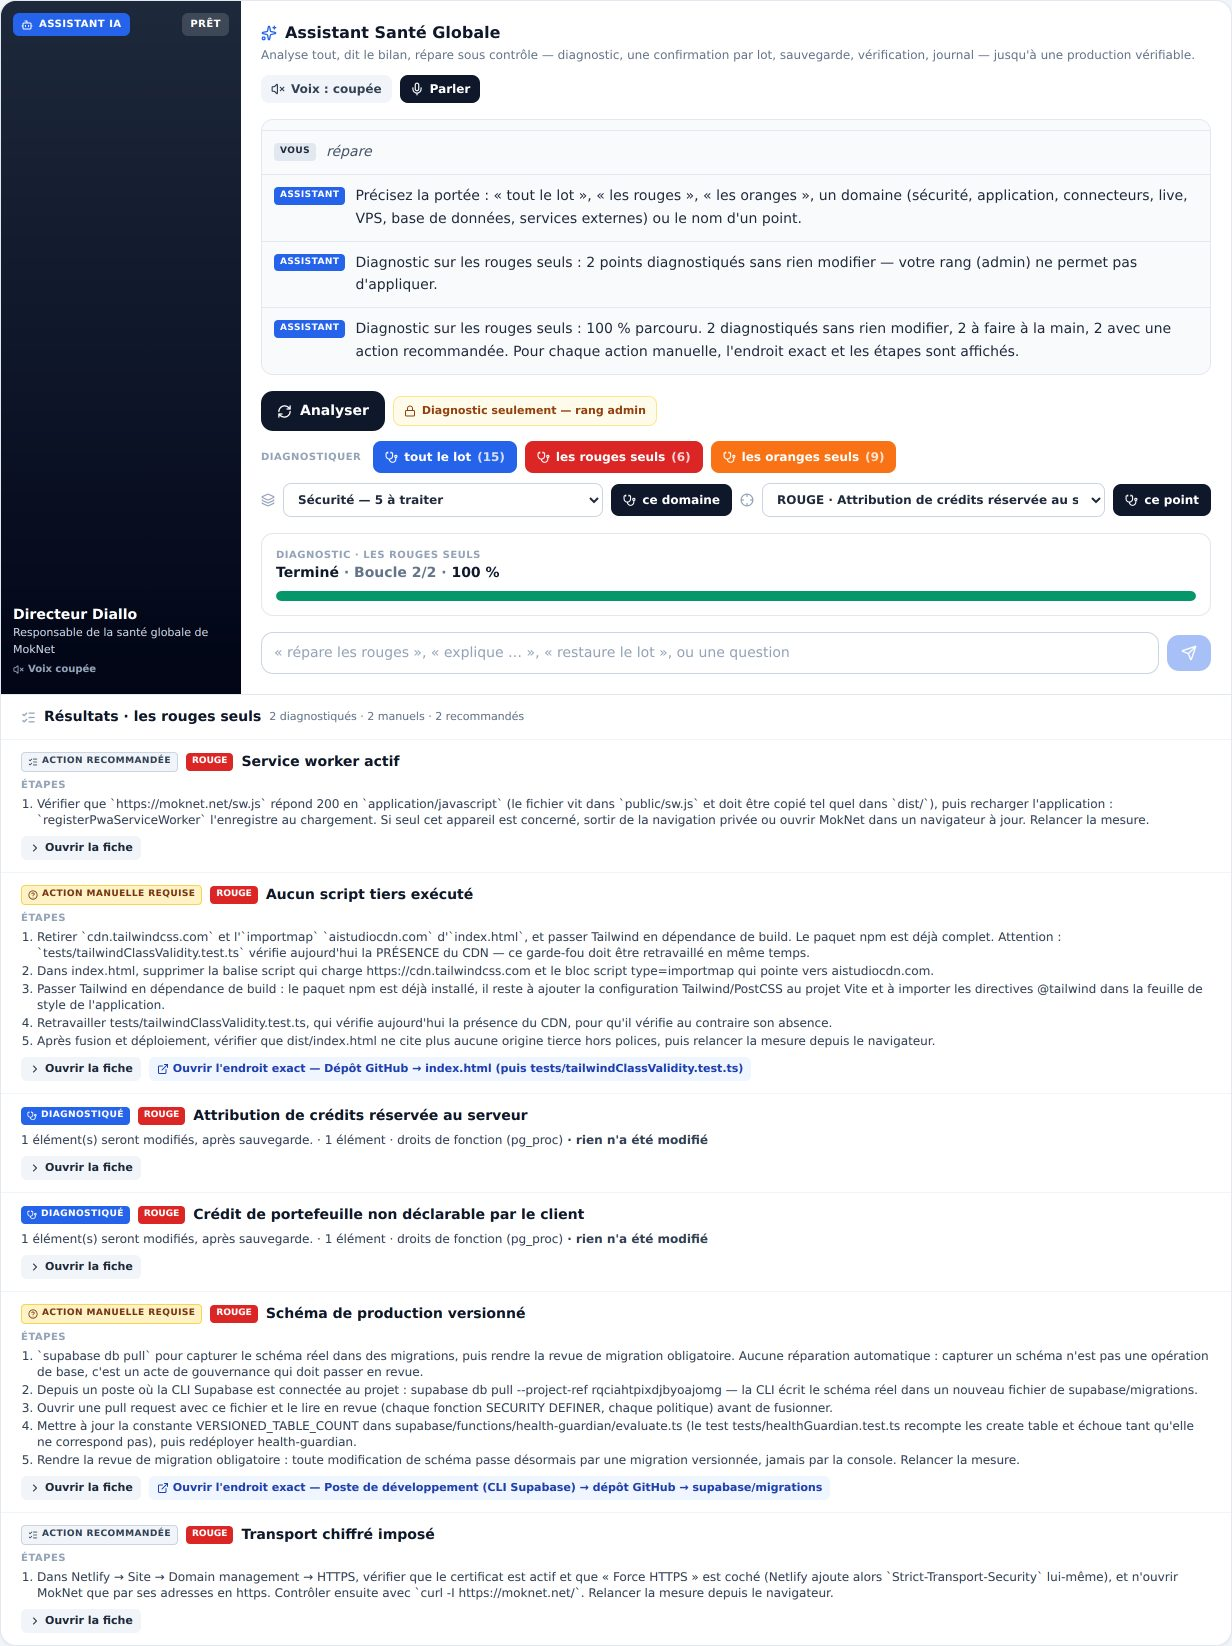
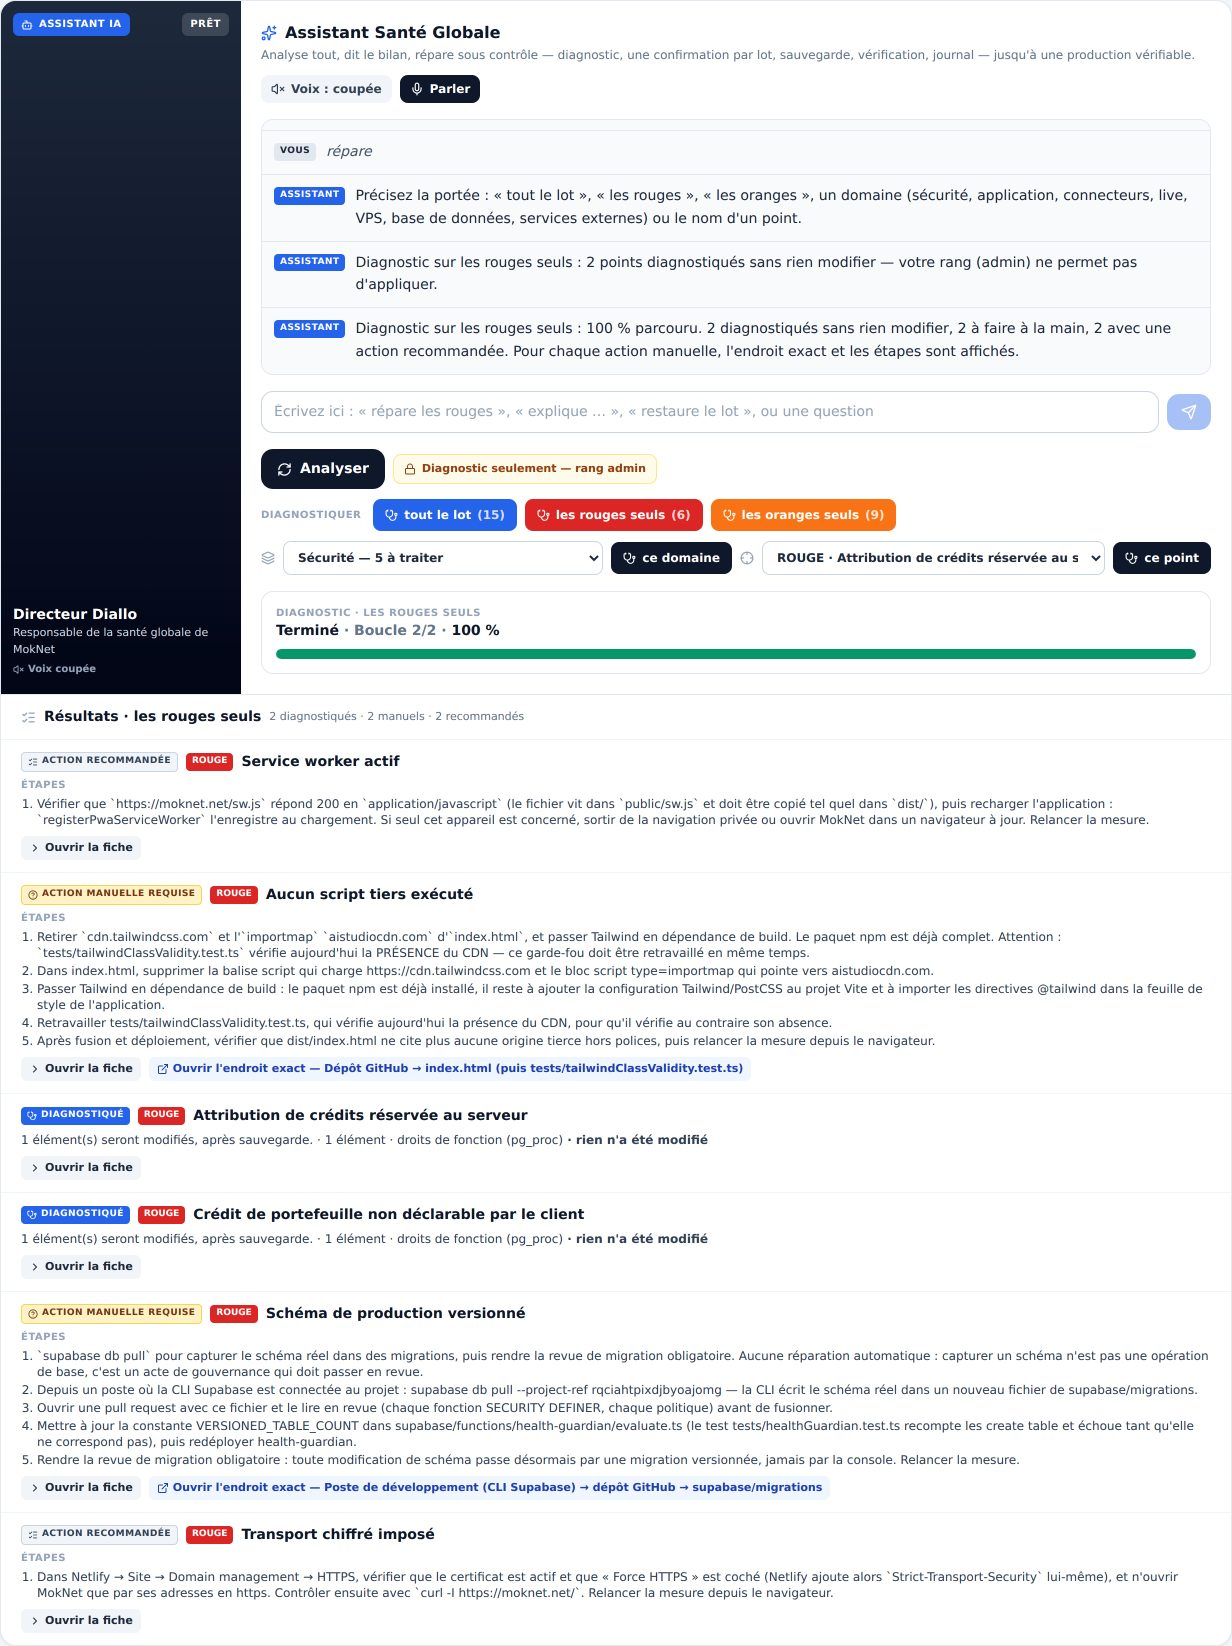
feat(sante): Assistant Santé Globale — le champ de dialogue placé juste sous la conversation, rien à activer
La Direction demandait où se fait le dialogue avec l'Assistant et comment
l'activer. Le champ de saisie était sous les boutons de commande et la
progression ; il est désormais juste sous la conversation, là où l'on répond
à ce qu'on vient de lire (touche Entrée ou bouton Envoyer), avec le
placeholder « Écrivez ici : … ». Rien n'est à activer : le dialogue est
ouvert à tout administrateur, seul l'acte d'appliquer une réparation exige
le rang Admin Général (garde serveur inchangée).

Captures de preuve régénérées sur le harnais (mesures de production du
5/09, quatre parcours, 0 erreur JS) ; README des captures : où se fait le
dialogue. Typage 0 erreur, 1588/1588 tests.

Claude-Session: https://claude.ai/code/session_01EkBFwqPaEpZguZAEQDfhDx

Changed region(s): [[0.2159, 0.2169, 0.987, 0.4338]]

diff --git a/components/admin/HealthAssistant.tsx b/components/admin/HealthAssistant.tsx
@@ -472,6 +472,18 @@ export const HealthAssistant: React.FC<HealthAssistantProps> = ({
                         )}
                     </div>
 
+                    {/* Consigne écrite — juste sous le dialogue, là où l'on répond à ce qu'on vient de lire */}
+                    <form onSubmit={envoyer} className="flex items-center gap-2">
+                        <label htmlFor="assistant-saisie" className="sr-only">Consigne ou question</label>
+                        <input id="assistant-saisie" type="text" value={saisie} onChange={(e) => setSaisie(e.target.value)} autoComplete="off"
+                               placeholder="Écrivez ici : « répare les rouges », « explique … », « restaure le lot », ou une question"
+                               className="flex-1 min-w-0 rounded-xl border border-slate-300 px-3 py-2.5 text-sm text-slate-900 placeholder:text-slate-400 focus:outline-none focus:ring-2 focus:ring-blue-500" />
+                        <button type="submit" disabled={!saisie.trim()} aria-label="Envoyer"
+                                className="px-3.5 py-2.5 rounded-xl bg-blue-600 text-white hover:bg-blue-700 disabled:opacity-40 focus-visible:outline-none focus-visible:ring-2 focus-visible:ring-blue-500">
+                            <Send size={16} />
+                        </button>
+                    </form>
+
                     {/* Commandes */}
                     <div className="space-y-2.5">
                         <div className="flex flex-wrap items-center gap-2">
@@ -545,18 +557,6 @@ export const HealthAssistant: React.FC<HealthAssistantProps> = ({
                     {campagne && (
                         <Progression campagne={campagne} occupe={occupe} onArreter={arreter} />
                     )}
-
-                    {/* Consigne écrite */}
-                    <form onSubmit={envoyer} className="flex items-center gap-2">
-                        <label htmlFor="assistant-saisie" className="sr-only">Consigne ou question</label>
-                        <input id="assistant-saisie" type="text" value={saisie} onChange={(e) => setSaisie(e.target.value)} autoComplete="off"
-                               placeholder="« répare les rouges », « explique … », « restaure le lot », ou une question"
-                               className="flex-1 min-w-0 rounded-xl border border-slate-300 px-3 py-2.5 text-sm text-slate-900 placeholder:text-slate-400 focus:outline-none focus:ring-2 focus:ring-blue-500" />
-                        <button type="submit" disabled={!saisie.trim()} aria-label="Envoyer"
-                                className="px-3.5 py-2.5 rounded-xl bg-blue-600 text-white hover:bg-blue-700 disabled:opacity-40 focus-visible:outline-none focus-visible:ring-2 focus-visible:ring-blue-500">
-                            <Send size={16} />
-                        </button>
-                    </form>
                 </div>
             </div>
 

diff --git a/docs/captures/2026-09-05-sante-assistant/README.md b/docs/captures/2026-09-05-sante-assistant/README.md
@@ -5,6 +5,13 @@
 **« Assistant Santé Globale »** (juste sous la barre de commandement, avant
 les graphiques).
 
+**Où se fait le dialogue** : dans ce panneau, le champ « Écrivez ici : … »
+placé juste sous la conversation (touche Entrée ou bouton Envoyer), ou le
+bouton « Parler » (micro du navigateur, autorisation demandée au premier clic).
+Rien à activer : le dialogue est ouvert à tout administrateur ; seul l'acte
+d'appliquer une réparation exige le rang Admin Général. Captures régénérées
+le 5/09 après le déplacement du champ sous la conversation (v6.39.1).
+
 **Comment ces captures ont été produites** : le composant de production
 (`components/admin/AdminHealthTab.tsx`, Assistant compris) rendu dans un
 harnais Chromium local sur les **mesures de production relevées le
